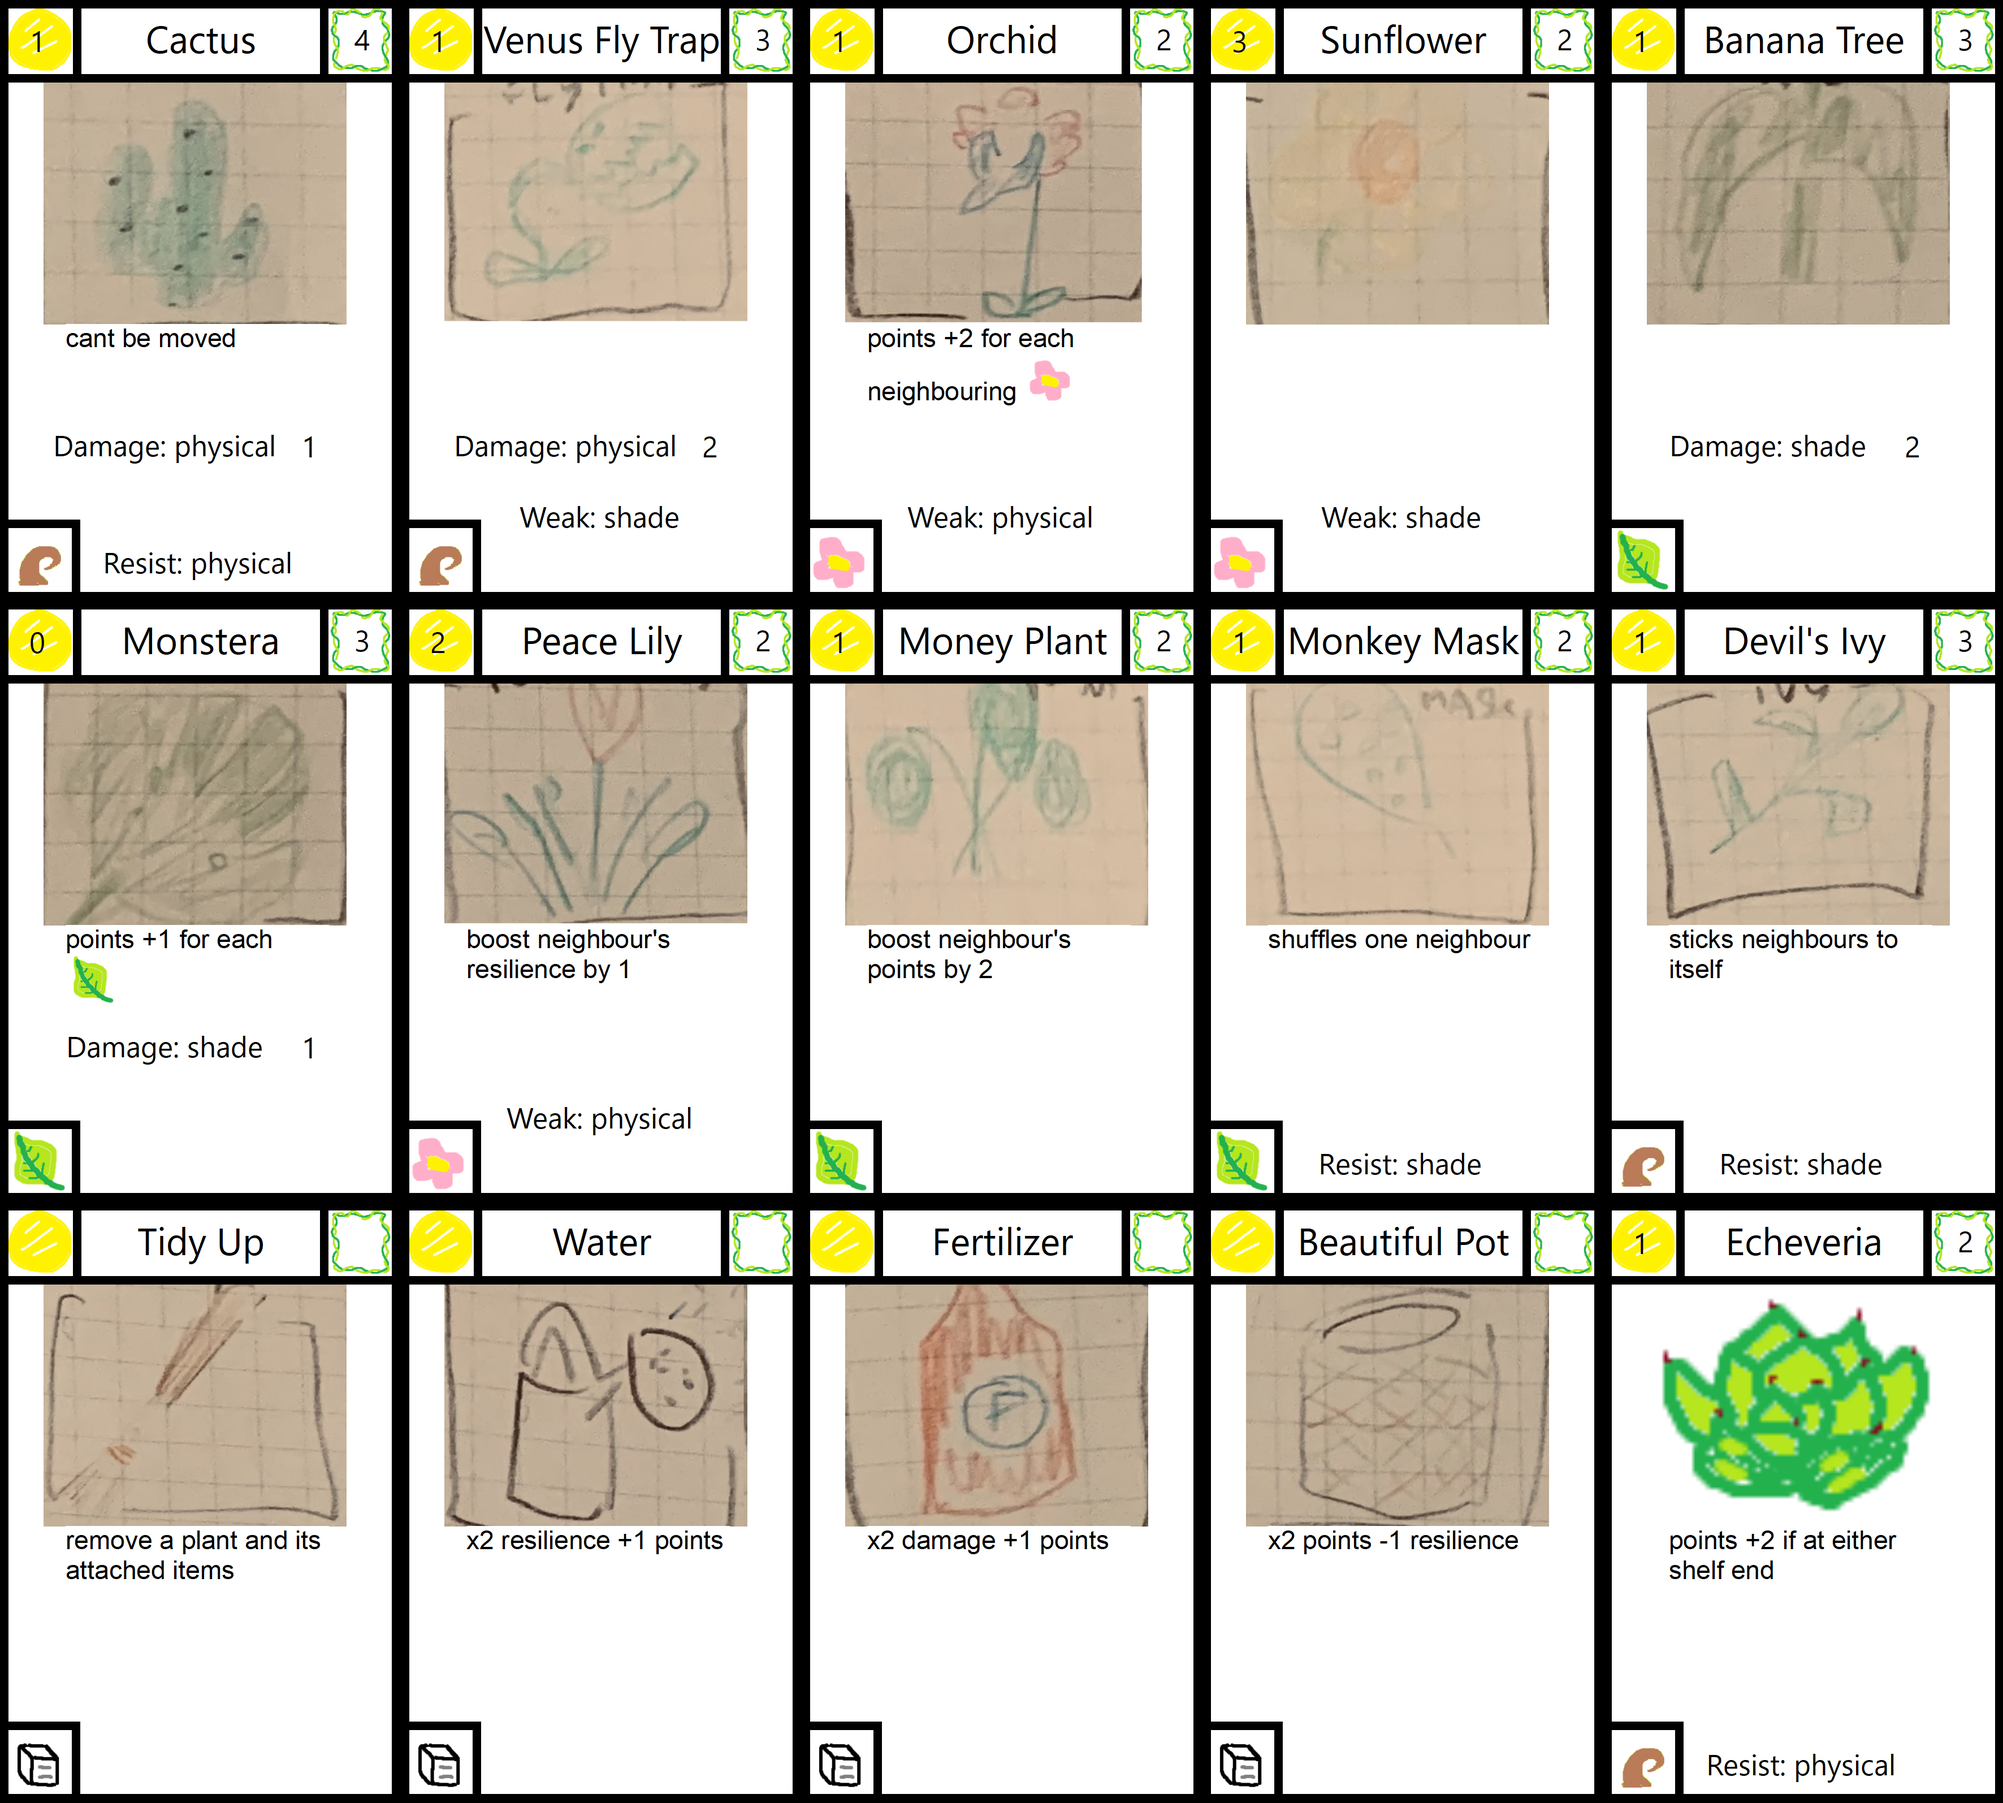
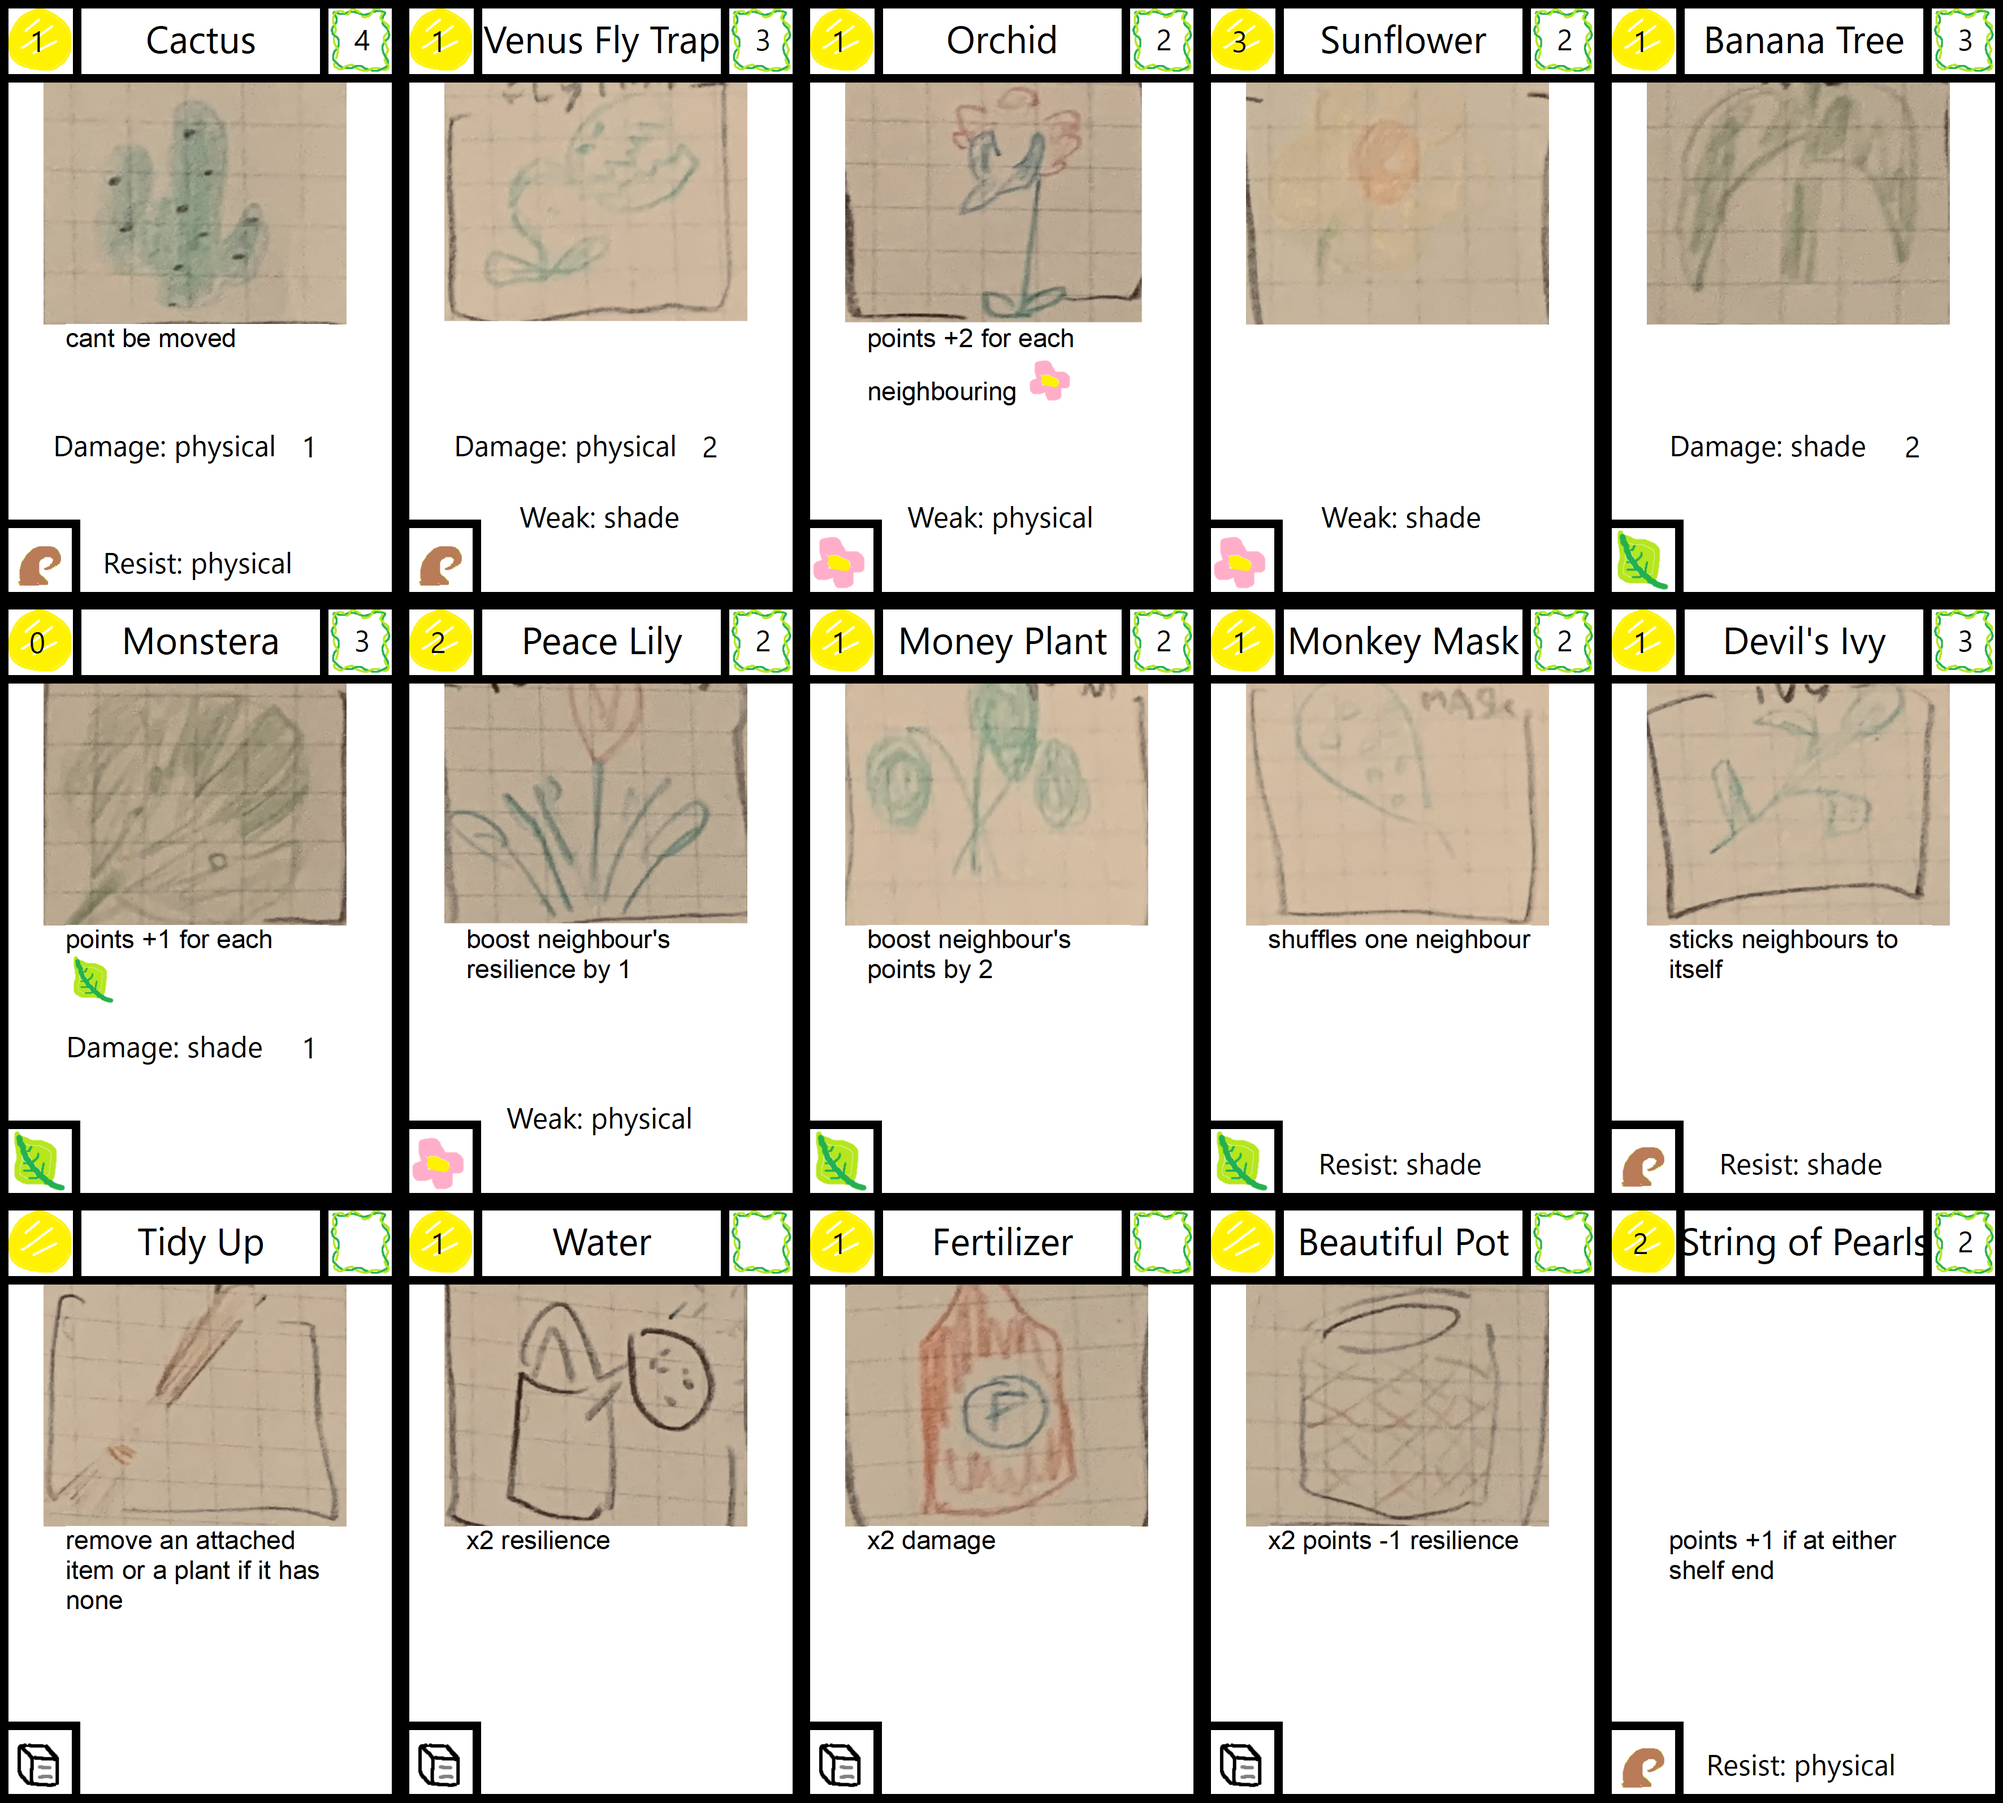
art feedback, string of pearls

diff --git a/README.md b/README.md
@@ -29,3 +29,13 @@ Diggle:
 Alternate win conditions:
 2nd player can end the game, otherwise 2nd player can add 1 more plant (this may be too powerful so item?)
 after the 9th plant is played players make a final bluff play, resolve the bluffs in order starting with final player first
+
+
+Concept feedback from Rob:
+colour instead of type is ace
+art style is perfect blend of cute realistic
+different palette of colour maybe? (Ollie is happy with it)
+need more explanation text in places
+use dice for numbers so we can view both ways around
+resilience in black/white circle instead of green
+points gold is good - star shape, victory pointy chubby star like a mario star
